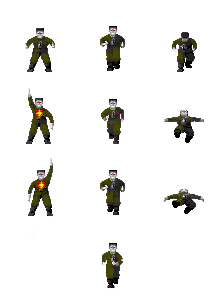
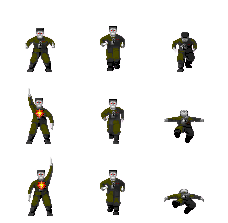
corrijo el movimiento de los enemigos

diff --git a/client_src/game/image_manager.cpp b/client_src/game/image_manager.cpp
@@ -3,6 +3,7 @@
 //
 
 #include <vector>
+#include <iostream>
 #include "client/game/image_manager.h"
 
 #define WEAPON_ENEMY_DELTA 17
@@ -64,19 +65,24 @@ int ImageManager::getShootingAnimationForWeapon(int weapon_number) {
 
 void ImageManager::getMovingAnimationForEnemy(Drawable& drawable,
                                               int current_animation) {
-    int object_type = drawable.getSpriteAnimationNo();
+    int object_type = drawable.getObjectType();
     std::vector<int> possible_animations =
             getMovingAnimationsForEnemy(object_type);
     if (current_animation == possible_animations[possible_animations.size()-1])
         drawable.setSpriteAnimationNo(possible_animations[0]);
-    for (auto& animation : possible_animations) {
-        if (animation > current_animation)
-            drawable.setSpriteAnimationNo(animation);
+    else {
+        for (auto& animation : possible_animations) {
+            if (animation > current_animation) {
+                drawable.setSpriteAnimationNo(animation);
+                break;
+            }
+        }
     }
+    std::cout << "El enemigo se mueve, animacion: " << drawable.getSpriteAnimationNo() << std::endl;
 }
 
 std::vector<int> ImageManager::getMovingAnimationsForEnemy(int object_type) {
-    return std::vector<int>{0, 1, 4, 7, 10};
+    return std::vector<int>{0, 1, 2, 3};
 }
 
 void ImageManager::getAttackingAnimationForEnemy(Drawable& enemy) {
@@ -85,8 +91,10 @@ void ImageManager::getAttackingAnimationForEnemy(Drawable& enemy) {
         enemy.setSpriteAnimationNo(6);
     else
         enemy.setSpriteAnimationNo(3);
+    std::cout << "El enemigo ataca, animacion: " << enemy.getSpriteAnimationNo() << std::endl;
 }
 
 void ImageManager::getDyingAnimationForEnemy(Drawable &enemy) {
     enemy.setSpriteAnimationNo(8); // HAY MAS
+    std::cout << "El enemigo muere, animacion: " << enemy.getSpriteAnimationNo() << std::endl;
 }

diff --git a/client_src/game/client_map.cpp b/client_src/game/client_map.cpp
@@ -181,15 +181,18 @@ void ClientMap::moveObject(int object_id, std::pair<int, int> new_coordinates) {
             Drawable>(new_coordinates,drawable));
 }
 
-void ClientMap::moveObject(int object_id, int x_pos, int y_pos){
-    if (objects.find(object_id) == objects.end())
+void ClientMap::moveEnemy(int enemy_id, int x_pos, int y_pos){
+    if (enemies.find(enemy_id) == enemies.end())
         return;
-    Drawable& drawable = objects.at(object_id);
-    std::pair<int, int> current_coord = drawable.getMapPosition();
-    drawables_by_position.erase(current_coord);
-    drawable.setMapPosition(x_pos, y_pos);
-    drawables_by_position.insert(std::pair<std::pair<int, int>,
-            Drawable>(std::pair<int, int>{x_pos, y_pos},drawable));
+    Drawable& enemy = enemies.at(enemy_id);
+    //std::pair<int, int> current_coord = drawable.getMapPosition();
+    //drawables_by_position.erase(current_coord);
+    enemy.setMapPosition(x_pos, y_pos);
+    ImageManager::getMovingAnimationForEnemy(enemy,
+                                             enemy.getSpriteAnimationNo());
+    std::cout << "El enemigo se mueve con animacion " << enemy.getSpriteAnimationNo() << std::endl;
+    //drawables_by_position.insert(std::pair<std::pair<int, int>,
+           //Drawable>(std::pair<int, int>{x_pos, y_pos},drawable));
 }
 
 int ClientMap::getWidth() {
@@ -323,6 +326,8 @@ void ClientMap::changeEnemyImage(int player_id, int weapon) {
 }
 
 void ClientMap::updateEnemiesSprites() {
+    return;
+    std::cout << "Actualizando enemigos\n";
     for (auto& pair : enemies) {
         Drawable& enemy = pair.second;
         int current_animation = enemy.getSpriteAnimationNo();

diff --git a/client_src/graphics/object_drawing_assistant.cpp b/client_src/graphics/object_drawing_assistant.cpp
@@ -20,9 +20,16 @@ void ObjectDrawingAssistant::put3DObject(ObjectInfo& object_info,
     int object_type = object_info.getObjectType();
     SDL_Texture* texture = texture_manager.getImageFromObjectType(object_type);
     Area image_area;
-    if (object_info.isSprite())
+    if (object_info.isSprite()) {
         image_area = texture_manager.getAreaForEnemySprite(object_type,
                                             object_info.getSpriteAnimationNo());
+        std::cout << "Se dibuja un enemigo " << object_info.getObjectName() << " con animacion " << object_info.getSpriteAnimationNo() << std::endl;
+        std::cout << "Area del enemigo:\n";
+        std::cout << "x: " << image_area.getX() << std::endl;
+        std::cout << "y: " << image_area.getY() << std::endl;
+        std::cout << "width: " << image_area.getWidth() << std::endl;
+        std::cout << "height: " << image_area.getHeight() << std::endl;
+    }
     else
         image_area = texture_manager.getImageAreaFromObjectType(object_type);
     image_area.setX((int) object_info.getHitGridPos() * image_area.getWidth());
@@ -31,6 +38,8 @@ void ObjectDrawingAssistant::put3DObject(ObjectInfo& object_info,
     bool debug_object_drawing_info = false;
     if (!debug_object_drawing_info)
         return;
+    std::cout << "Objeto: " << object_info.getObjectName() << std::endl;
+    std::cout << "Animacion: " << object_info.getSpriteAnimationNo() << std::endl;
     printf("Nombre de objeto: %s\n", object_info.getObjectName().c_str());
     printf("Distancia: %f\n", object_info.getHitDistance());
     printf("Pos x: %d\n", screen_area.getX());

diff --git a/client_src/graphics/object_drawer.cpp b/client_src/graphics/object_drawer.cpp
@@ -23,7 +23,7 @@ void ObjectDrawer::loadObjects(int x, int y, double player_angle) {
     //std::cout << "Cant objetos: " << objects_vector.size() << std::endl;
     //std::cout << "jugador en: " << x << "," << y <<")\n";
     for (auto& object : objects_vector) {
-        std::cout << "objeto en: " << object.getMapPosition().first << "," << object.getMapPosition().second <<")\n";;
+        //std::cout << "objeto en: " << object.getMapPosition().first << "," << object.getMapPosition().second <<")\n";;
         //printf("El objeto %s empieza en la posicion: (%d,%d)\n", object.getObjectName().c_str(), object.getMapPosition().first, object.getMapPosition().second);
         double object_starting_angle =
                 getObjectAngle(x, y, object.getMapPosition());

diff --git a/client_src/graphics/weapon_drawer.cpp b/client_src/graphics/weapon_drawer.cpp
@@ -21,7 +21,7 @@ void WeaponDrawer::drawPlayersEquippedWeapon(int weapon_number) {
                                                          + EQ_WEAPON_DELTA);
     SDL_Texture* texture =
             texture_manager.getImageFromObjectType(object_type);
-    Area image_area = texture_manager.getAreaForEnemySprite(object_type, 0);
+    Area image_area = texture_manager.getAreaForWeapon(object_type, 0);
     Area screen_area = assembleScreenWeaponArea(object_info);
     window.loadImage(texture, image_area, screen_area);
 }

diff --git a/client_src/game/in_game_change_processor.cpp b/client_src/game/in_game_change_processor.cpp
@@ -47,7 +47,7 @@ std::vector<int> InGameChangeProcessor::processInGameChange(Change &change) {
                 render_vector = std::vector<int>{1, 1, 1, 0};
             } else {
                 std::cout << "Otro jugador se mueve en el mapa\n";
-                map.moveObject(id, value1, value2);
+                map.moveEnemy(id, value1, value2);
                 render_vector = std::vector<int>{0, 1, 0, 0};
             }
             // id: player_id - value1: new_x - value2: new_y

diff --git a/include/client/game/client_map.h b/include/client/game/client_map.h
@@ -65,7 +65,7 @@ public:
     void setObjectId(std::pair<int, int> coordinates, int object_id);
     std::vector<Drawable> getAllObjectsAndEnemies();
     void removeObject(int object_id);
-    void moveObject(int object_id, int new_x, int new_y);
+    void moveEnemy(int object_id, int new_x, int new_y);
     Drawable& getObjectById(int object_id);
     void putObjectAt(int object_type, int x_pos, int y_pos);
     void putObjectAt(int object_type, int object_id, int x_pos, int y_pos);

diff --git a/client_src/graphics/game_screen.cpp b/client_src/graphics/game_screen.cpp
@@ -51,8 +51,8 @@ void GameScreen::displayLevelSelectionMenu() {
 }
 
 void GameScreen::render(std::vector<int> boolean_vector) {
-    if (boolean_vector == std::vector<int>{0, 0, 0, 0})
-        return;
+    //if (boolean_vector == std::vector<int>{0, 0, 0, 0})
+        //return;
     bool render_ray_caster = boolean_vector[0];
     bool render_object_drawer = boolean_vector[1];
     bool render_player_weapon = boolean_vector[2];

diff --git a/client_src/graphics/texture_manager.cpp b/client_src/graphics/texture_manager.cpp
@@ -54,4 +54,9 @@ Area TextureManager::getAreaForEnemySprite(int object_type,
     return areas_vector[object_type][current_animation_no];
 }
 
+Area TextureManager::getAreaForWeapon(int object_type,
+                                           int current_animation_no) {
+    return areas_vector[object_type][current_animation_no];
+}
+
 

diff --git a/include/client/graphics/texture_manager.h b/include/client/graphics/texture_manager.h
@@ -26,6 +26,7 @@ public:
     std::vector<Area> getSingleImageArea(ObjectInfo &object_info);
     std::vector<Area> getAllSpriteAreas(ObjectInfo &object_info);
     Area getAreaForEnemySprite(int object_type, int current_animation_no);
+    Area getAreaForWeapon(int object_type, int current_animation_no);
 };
 
 
